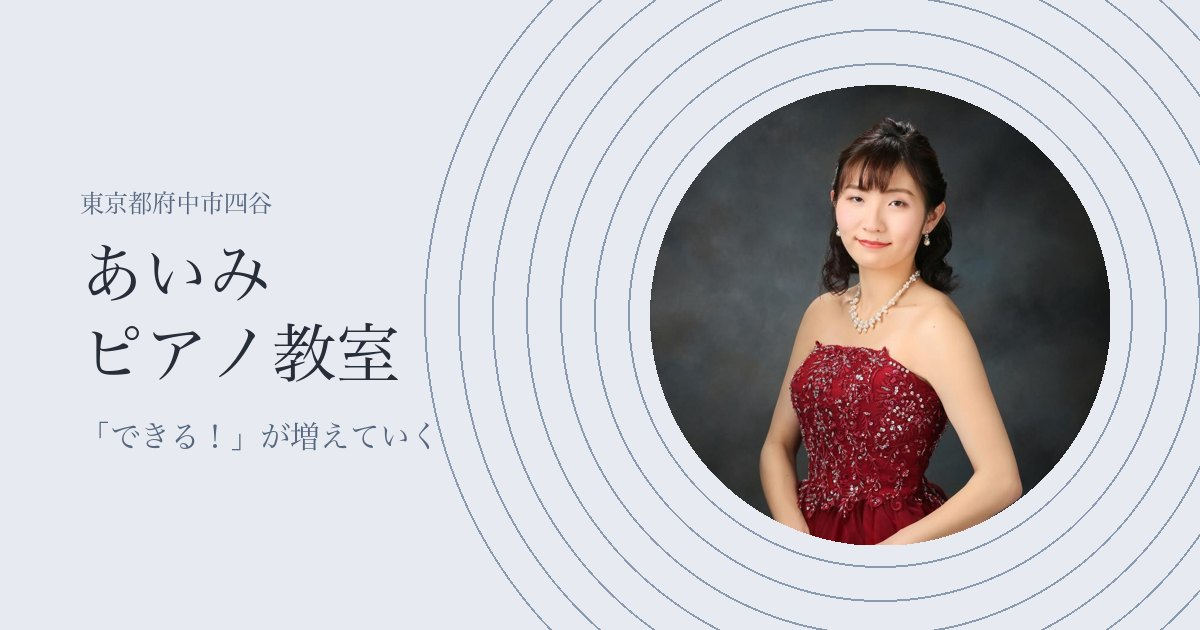
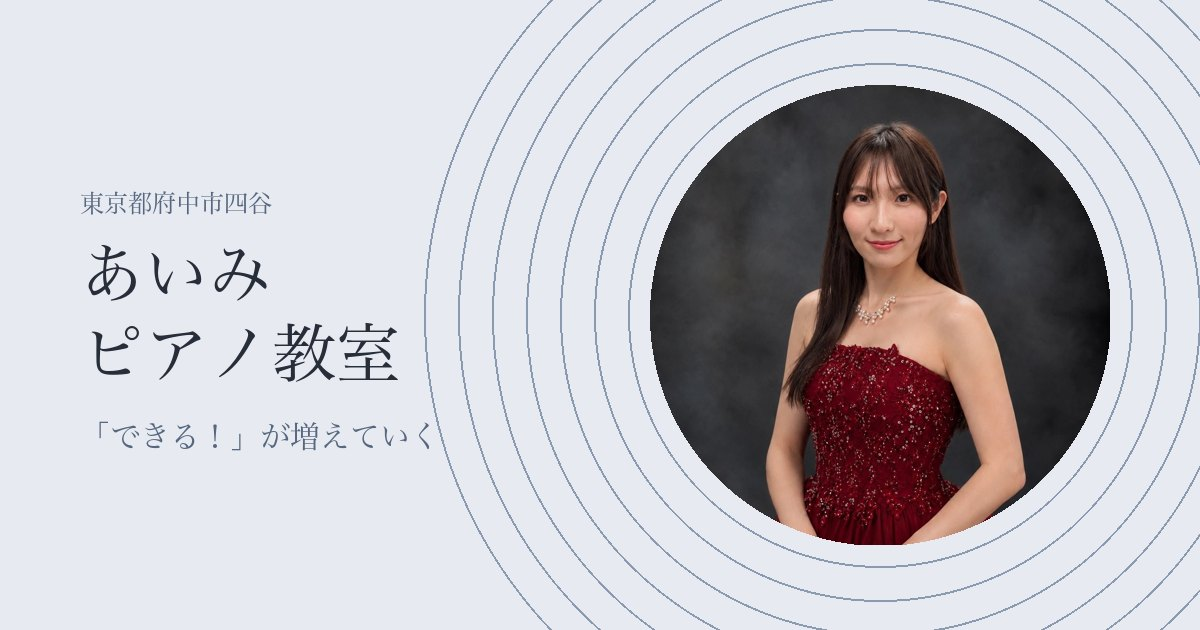
トップ写真を差し替え、スマホ表示の調整、GAS接続、org用パス

Changed region(s): [[0.5242, 0.181, 0.8633, 0.8746], [0.5858, 0.2714, 0.6167, 0.3317]]

diff --git a/404.html b/404.html
@@ -11,15 +11,15 @@
 <meta property="og:site_name" content="あいみピアノ教室">
 <meta property="og:title" content="ページが見つかりません｜あいみピアノ教室（東京都府中市四谷）">
 <meta property="og:description" content="お探しのページは見つかりませんでした。">
-<meta property="og:image" content="/aimi-piano/images/og.jpg">
+<meta property="og:image" content="/images/og.jpg">
 <meta property="og:locale" content="ja_JP">
 <meta name="twitter:card" content="summary_large_image">
-<link rel="icon" href="/aimi-piano/images/favicon.svg" type="image/svg+xml">
-<link rel="apple-touch-icon" href="/aimi-piano/images/apple-touch-icon.png">
+<link rel="icon" href="/images/favicon.svg" type="image/svg+xml">
+<link rel="apple-touch-icon" href="/images/apple-touch-icon.png">
 <link rel="preconnect" href="https://fonts.googleapis.com">
 <link rel="preconnect" href="https://fonts.gstatic.com" crossorigin>
 <link rel="stylesheet" href="https://fonts.googleapis.com/css2?family=Cormorant+Garamond:ital,wght@0,500;0,600;1,500&family=Shippori+Mincho:wght@500;600&family=Zen+Kaku+Gothic+New:wght@400;500;700&display=swap">
-<link rel="stylesheet" href="/aimi-piano/css/style.css">
+<link rel="stylesheet" href="/css/style.css">
 <script>document.documentElement.classList.add('js')</script>
 
 </head>
@@ -27,14 +27,14 @@
 <a class="skip" href="#main">本文へスキップ</a>
 <header class="site-header" id="top">
   <div class="wrap site-header__inner">
-    <a class="brand" href="/aimi-piano/index.html" aria-label="あいみピアノ教室 トップページ">
+    <a class="brand" href="/index.html" aria-label="あいみピアノ教室 トップページ">
       <svg class="brand__mark" viewBox="0 0 40 40" aria-hidden="true"><circle cx="20" cy="20" r="19" fill="#8A9AB0"/><circle cx="20" cy="20" r="13.5" fill="none" stroke="#fff" stroke-opacity=".45" stroke-width="1"/><circle cx="20" cy="20" r="8.5" fill="none" stroke="#fff" stroke-opacity=".7" stroke-width="1"/><path d="M21.5 11v11.2a3.3 3.3 0 11-1.6-2.8V11h1.6z" fill="#fff"/><path d="M21.5 11c1.8 1.2 4 2 4.3 4.6" fill="none" stroke="#fff" stroke-width="1.5" stroke-linecap="round"/></svg>
       <span class="brand__text"><span class="brand__ja">あいみピアノ教室</span><span class="brand__en">Aimi Piano School</span></span>
     </a>
     <button class="menu-toggle" type="button" aria-controls="gnav" aria-expanded="false"><span class="menu-toggle__bar" aria-hidden="true"></span><span class="sr-only">メニューを開く</span></button>
     <nav class="gnav" id="gnav" aria-label="メインメニュー">
       <ul class="gnav__list">
-        <li><a href="/aimi-piano/about.html">教室について</a></li><li><a href="/aimi-piano/lesson.html">レッスン・月謝</a></li><li><a href="/aimi-piano/teacher.html">講師紹介</a></li><li><a href="/aimi-piano/recital.html">発表会</a></li><li><a href="/aimi-piano/news/index.html">お知らせ</a></li><li><a href="/aimi-piano/faq.html">よくある質問</a></li><li class="gnav__ig"><a href="https://www.instagram.com/aimi_piano_/" target="_blank" rel="noopener" aria-label="Instagram（新しいタブで開きます）"><svg viewBox="0 0 24 24" fill="none" stroke="currentColor" stroke-width="1.6" aria-hidden="true"><rect x="3" y="3" width="18" height="18" rx="5"/><circle cx="12" cy="12" r="4"/><circle cx="17.5" cy="6.5" r="1" fill="currentColor" stroke="none"/></svg><span class="gnav__ig-label">Instagram</span></a></li><li class="gnav__cta"><a class="btn btn--primary btn--sm" href="/aimi-piano/contact.html">体験レッスン</a></li>
+        <li><a href="/about.html">教室について</a></li><li><a href="/lesson.html">レッスン・月謝</a></li><li><a href="/teacher.html">講師紹介</a></li><li><a href="/recital.html">発表会</a></li><li><a href="/news/index.html">お知らせ</a></li><li><a href="/faq.html">よくある質問</a></li><li class="gnav__ig"><a href="https://www.instagram.com/aimi_piano_/" target="_blank" rel="noopener" aria-label="Instagram（新しいタブで開きます）"><svg viewBox="0 0 24 24" fill="none" stroke="currentColor" stroke-width="1.6" aria-hidden="true"><rect x="3" y="3" width="18" height="18" rx="5"/><circle cx="12" cy="12" r="4"/><circle cx="17.5" cy="6.5" r="1" fill="currentColor" stroke="none"/></svg><span class="gnav__ig-label">Instagram</span></a></li><li class="gnav__cta"><a class="btn btn--primary btn--sm" href="/contact.html">体験レッスン</a></li>
       </ul>
     </nav>
   </div>
@@ -46,7 +46,7 @@
     <span class="eyebrow">404</span>
     <h1>ページが見つかりません</h1>
     <p>URLが変わったか、ページが削除された可能性があります。旧ブログの記事は「お知らせ・教室日記」に移しました。</p>
-    <p><a class="btn btn--primary" href="/aimi-piano/index.html">トップページへ</a></p>
+    <p><a class="btn btn--primary" href="/index.html">トップページへ</a></p>
   </div>
 </section>
 
@@ -56,27 +56,27 @@
   <div class="wrap">
     <div class="site-footer__grid">
       <div class="site-footer__about">
-        <a class="brand" href="/aimi-piano/index.html"><svg class="brand__mark" viewBox="0 0 40 40" aria-hidden="true"><circle cx="20" cy="20" r="19" fill="#8A9AB0"/><circle cx="20" cy="20" r="13.5" fill="none" stroke="#fff" stroke-opacity=".45" stroke-width="1"/><circle cx="20" cy="20" r="8.5" fill="none" stroke="#fff" stroke-opacity=".7" stroke-width="1"/><path d="M21.5 11v11.2a3.3 3.3 0 11-1.6-2.8V11h1.6z" fill="#fff"/><path d="M21.5 11c1.8 1.2 4 2 4.3 4.6" fill="none" stroke="#fff" stroke-width="1.5" stroke-linecap="round"/></svg><span class="brand__text"><span class="brand__ja">あいみピアノ教室</span><span class="brand__en">Aimi Piano School</span></span></a>
+        <a class="brand" href="/index.html"><svg class="brand__mark" viewBox="0 0 40 40" aria-hidden="true"><circle cx="20" cy="20" r="19" fill="#8A9AB0"/><circle cx="20" cy="20" r="13.5" fill="none" stroke="#fff" stroke-opacity=".45" stroke-width="1"/><circle cx="20" cy="20" r="8.5" fill="none" stroke="#fff" stroke-opacity=".7" stroke-width="1"/><path d="M21.5 11v11.2a3.3 3.3 0 11-1.6-2.8V11h1.6z" fill="#fff"/><path d="M21.5 11c1.8 1.2 4 2 4.3 4.6" fill="none" stroke="#fff" stroke-width="1.5" stroke-linecap="round"/></svg><span class="brand__text"><span class="brand__ja">あいみピアノ教室</span><span class="brand__en">Aimi Piano School</span></span></a>
         <p>東京都府中市四谷のピアノ教室です。リトミックを取り入れた個人レッスンで、3歳から大人の方（女性）まで一人ひとりに合わせて指導しています。</p>
         <a class="ig-link" href="https://www.instagram.com/aimi_piano_/" target="_blank" rel="noopener"><svg viewBox="0 0 24 24" fill="none" stroke="currentColor" stroke-width="1.6" aria-hidden="true"><rect x="3" y="3" width="18" height="18" rx="5"/><circle cx="12" cy="12" r="4"/><circle cx="17.5" cy="6.5" r="1" fill="currentColor" stroke="none"/></svg>@aimi_piano_</a>
       </div>
       <div>
         <h2>Menu</h2>
         <ul>
-          <li><a href="/aimi-piano/about.html">教室について</a></li>
-          <li><a href="/aimi-piano/lesson.html">レッスン・月謝</a></li>
-          <li><a href="/aimi-piano/teacher.html">講師紹介</a></li>
-          <li><a href="/aimi-piano/recital.html">発表会・イベント</a></li>
+          <li><a href="/about.html">教室について</a></li>
+          <li><a href="/lesson.html">レッスン・月謝</a></li>
+          <li><a href="/teacher.html">講師紹介</a></li>
+          <li><a href="/recital.html">発表会・イベント</a></li>
         </ul>
       </div>
       <div>
         <h2>Information</h2>
         <ul>
-          <li><a href="/aimi-piano/news/index.html">お知らせ・教室日記</a></li>
-          <li><a href="/aimi-piano/faq.html">よくある質問</a></li>
-          <li><a href="/aimi-piano/access.html">アクセス</a></li>
-          <li><a href="/aimi-piano/contact.html">お問い合わせ</a></li>
-          <li><a href="/aimi-piano/privacy.html">プライバシー<wbr>ポリシー</a></li>
+          <li><a href="/news/index.html">お知らせ・教室日記</a></li>
+          <li><a href="/faq.html">よくある質問</a></li>
+          <li><a href="/access.html">アクセス</a></li>
+          <li><a href="/contact.html">お問い合わせ</a></li>
+          <li><a href="/privacy.html">プライバシー<wbr>ポリシー</a></li>
         </ul>
       </div>
     </div>
@@ -86,8 +86,8 @@
     </div>
   </div>
 </footer>
-<div class="float-cta"><a class="btn btn--primary" href="/aimi-piano/contact.html">体験レッスンを申し込む<svg class="btn__arrow" viewBox="0 0 16 16" fill="none" stroke="currentColor" stroke-width="1.5" aria-hidden="true"><path d="M2 8h11M9 4l4 4-4 4"/></svg></a></div>
-<script src="/aimi-piano/js/main.js" defer></script>
+<div class="float-cta"><a class="btn btn--primary" href="/contact.html">体験レッスンを申し込む<svg class="btn__arrow" viewBox="0 0 16 16" fill="none" stroke="currentColor" stroke-width="1.5" aria-hidden="true"><path d="M2 8h11M9 4l4 4-4 4"/></svg></a></div>
+<script src="/js/main.js" defer></script>
 
 </body>
 </html>

diff --git a/index.html b/index.html
@@ -53,7 +53,7 @@
     </div>
     <div class="hero__visual">
       <svg class="hero__rings ripple" viewBox="0 0 400 400" aria-hidden="true" focusable="false"><circle cx="200" cy="200" r="60" stroke-width="1" opacity="0.55"/><circle cx="200" cy="200" r="77" stroke-width="1" opacity="0.50"/><circle cx="200" cy="200" r="94" stroke-width="1" opacity="0.45"/><circle cx="200" cy="200" r="111" stroke-width="1" opacity="0.40"/><circle cx="200" cy="200" r="128" stroke-width="1" opacity="0.35"/><circle cx="200" cy="200" r="145" stroke-width="1" opacity="0.30"/><circle cx="200" cy="200" r="162" stroke-width="1" opacity="0.25"/><circle cx="200" cy="200" r="179" stroke-width="1" opacity="0.20"/><circle cx="200" cy="200" r="196" stroke-width="1" opacity="0.15"/><circle class="wave" cx="200" cy="200" r="196" stroke-width="1.2"/><circle class="wave" cx="200" cy="200" r="196" stroke-width="1.2"/><circle class="wave" cx="200" cy="200" r="196" stroke-width="1.2"/></svg>
-      <div class="hero__photo"><img src="images/teacher-portrait.jpg" alt="講師の野口愛実" width="1080" height="1080" fetchpriority="high"></div>
+      <div class="hero__photo"><img src="images/teacher-portrait.jpg" alt="講師の野口愛実" width="989" height="1400" fetchpriority="high"></div>
       <div class="hero__badge"><span class="hero__badge-dot"><svg viewBox="0 0 24 24" fill="none" stroke="currentColor" stroke-width="1.6" aria-hidden="true"><path d="M9 18V5l11-2v13"/><circle cx="6" cy="18" r="3"/><circle cx="17" cy="16" r="3"/></svg></span><span><strong>国立音楽大学 卒業</strong>リトミック専門コース修了</span></div>
     </div>
   </div>

diff --git a/css/style.css b/css/style.css
@@ -258,7 +258,7 @@ ul, ol { margin: 0; padding: 0; }
   border-radius: 240px 240px 18px 18px; overflow: hidden; background: var(--mist-2);
   box-shadow: var(--shadow);
 }
-.hero__photo img { width: 100%; height: 100%; object-fit: cover; object-position: 50% 20%; }
+.hero__photo img { width: 100%; height: 100%; object-fit: cover; object-position: 50% 12%; }
 .hero__rings { position: absolute; z-index: 0; left: 50%; top: 42%; width: 190%; height: auto; aspect-ratio: 1; transform: translate(-50%, -50%); pointer-events: none; }
 .hero__rings circle { transform-origin: 50% 50%; transform-box: fill-box; }
 .hero__badge {

diff --git a/src/pages/index.html b/src/pages/index.html
@@ -12,7 +12,7 @@
     </div>
     <div class="hero__visual">
       {{hero-rings}}
-      <div class="hero__photo"><img src="images/teacher-portrait.jpg" alt="講師の野口愛実" width="1080" height="1080" fetchpriority="high"></div>
+      <div class="hero__photo"><img src="images/teacher-portrait.jpg" alt="講師の野口愛実" width="989" height="1400" fetchpriority="high"></div>
       <div class="hero__badge"><span class="hero__badge-dot">{{icon:note}}</span><span><strong>国立音楽大学 卒業</strong>リトミック専門コース修了</span></div>
     </div>
   </div>

diff --git a/src/pages/teacher.html b/src/pages/teacher.html
@@ -10,7 +10,7 @@
 
 <section class="section">
   <div class="wrap teacher">
-    <div class="teacher__photo reveal"><img src="images/teacher-portrait.jpg" alt="講師の野口愛実" width="1080" height="1080"></div>
+    <div class="teacher__photo reveal"><img src="images/teacher-portrait.jpg" alt="講師の野口愛実" width="989" height="1400"></div>
     <div class="stack-s reveal">
       <p class="teacher__role">あいみピアノ教室 主宰・講師</p>
       <h2 class="teacher__name"><span class="ja">野口 愛実</span><span class="en">Aimi Noguchi</span></h2>

diff --git a/teacher.html b/teacher.html
@@ -51,7 +51,7 @@
 
 <section class="section">
   <div class="wrap teacher">
-    <div class="teacher__photo reveal"><img src="images/teacher-portrait.jpg" alt="講師の野口愛実" width="1080" height="1080"></div>
+    <div class="teacher__photo reveal"><img src="images/teacher-portrait.jpg" alt="講師の野口愛実" width="989" height="1400"></div>
     <div class="stack-s reveal">
       <p class="teacher__role">あいみピアノ教室 主宰・講師</p>
       <h2 class="teacher__name"><span class="ja">野口 愛実</span><span class="en">Aimi Noguchi</span></h2>

diff --git a/js/config.js b/js/config.js
@@ -2,5 +2,5 @@
 // gas/Code.gs を Google Apps Script にデプロイして出た「ウェブアプリのURL」を入れる。
 // 空のままだと送信せず、「準備中」の案内を表示する。
 window.SITE_CONFIG = {
-  formEndpoint: ''
+  formEndpoint: 'https://script.google.com/macros/s/AKfycbwIlKzfg9t2lC5xhbPo2nWexGHfnE9Vsq03sH7lRYMRhZ0DEcV9SWRTa_N_mD9oLkwI/exec'
 };

diff --git a/tools/build.py b/tools/build.py
@@ -22,9 +22,9 @@ SITE = {
     "instagram": "https://www.instagram.com/aimi_piano_/",
     # 独自ドメインを取ったらここに入れる（例: "https://aimi-piano.com"）。空なら canonical/OGP の絶対URLを出さない
     "base_url": "",
-    # サイトのルートのパス。GitHub Pages の https://<user>.github.io/aimi-piano/ なら "/aimi-piano/"、独自ドメインなら "/"
+    # サイトのルートのパス。https://aimi-piano-fuchu.github.io/ や独自ドメインなら "/"、https://<user>.github.io/<repo>/ なら "/<repo>/"
     # 404.html はどの深さのURLでも表示されるので、ここから絶対パスでCSSや画像を読む
-    "abs_root": "/aimi-piano/",
+    "abs_root": "/",
 }
 
 NAV = [
